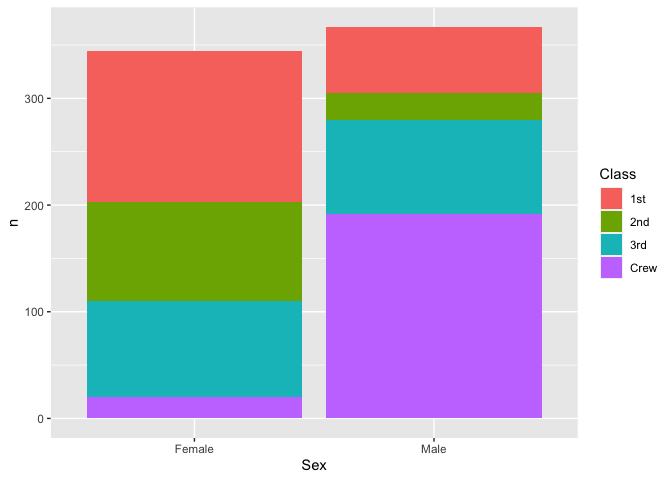
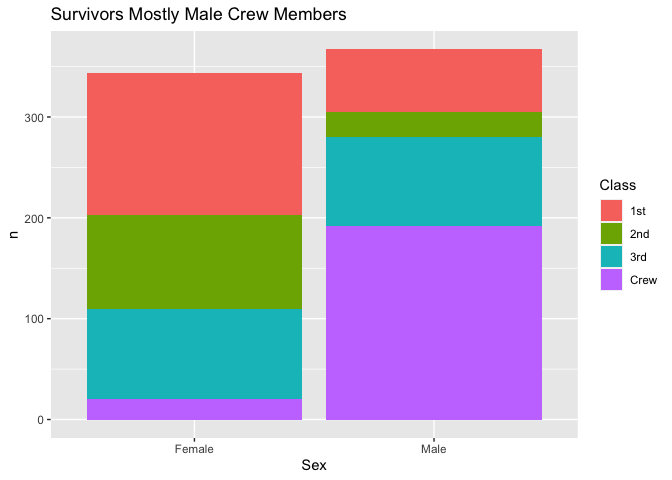
Updates to report

diff --git a/challenges/c01-titanic-assignment.md b/challenges/c01-titanic-assignment.md
@@ -142,7 +142,8 @@ df_titanic %>%
 df_titanic %>%
   filter(Survived == "Yes") %>%
   ggplot() +
-    geom_col(aes(x = Sex, y = n, fill = Class))
+    geom_col(aes(x = Sex, y = n, fill = Class)) +
+    ggtitle("Survivors Mostly Male Crew Members")
 ```
 
 ![](c01-titanic-assignment_files/figure-gfm/unnamed-chunk-1-1.png)<!-- -->
@@ -279,6 +280,8 @@ df_prop %>%
 ```
 
 ![](c01-titanic-assignment_files/figure-gfm/male-children-1.png)<!-- -->
+1st class men were much less likely to survive than 1st class women and
+1st and 2nd class children.
 
 ``` r
 df_prop %>%
